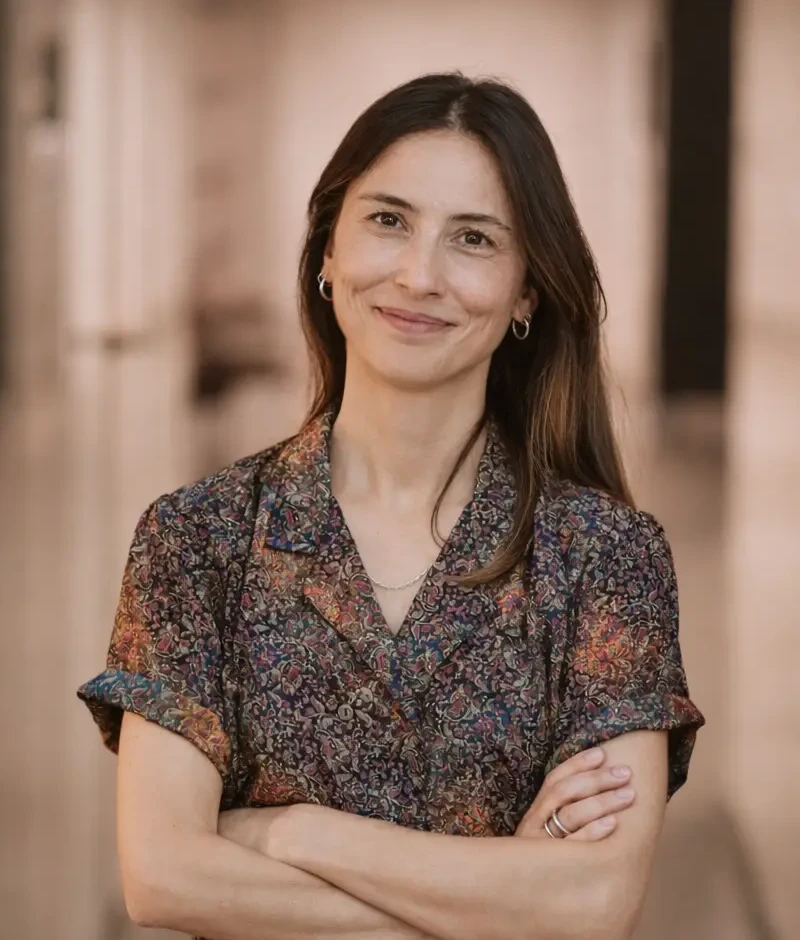
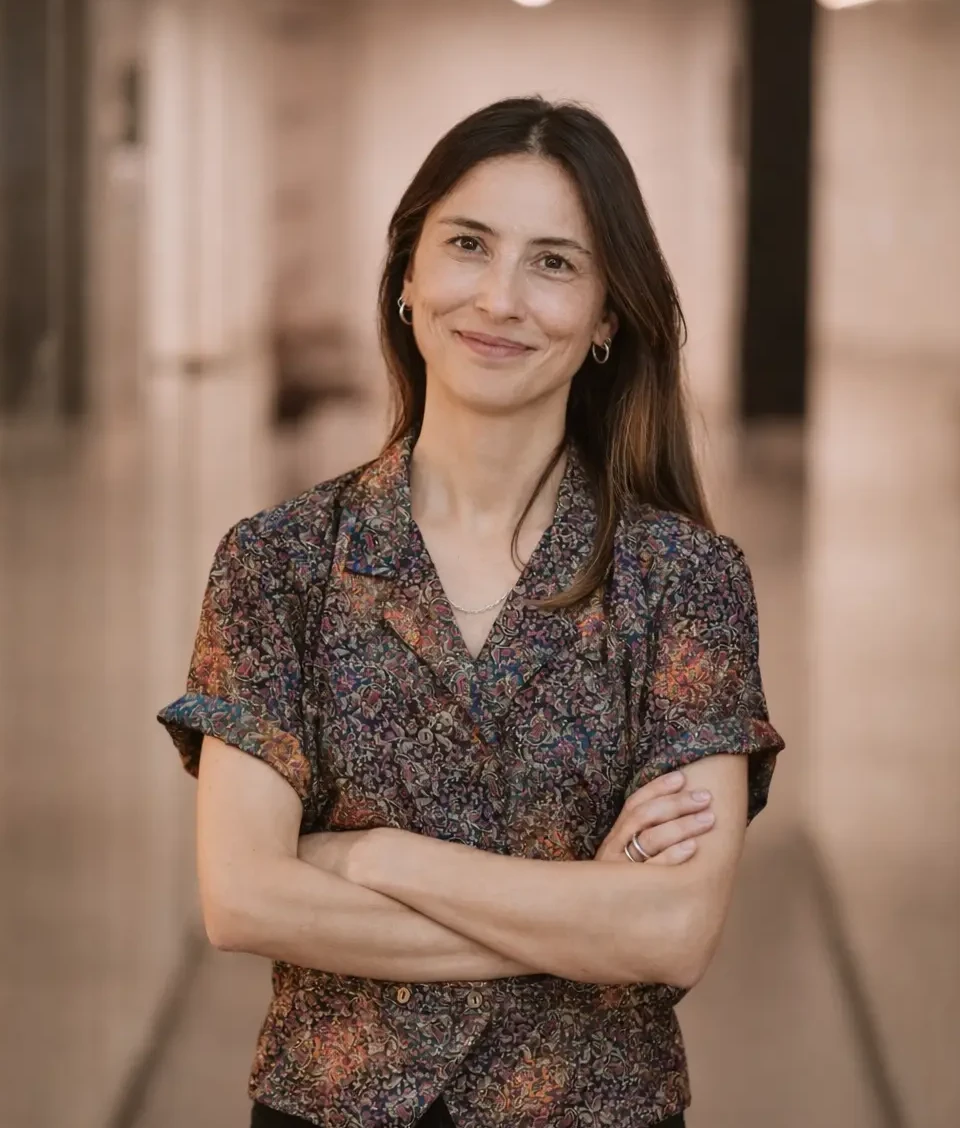
changed animation

diff --git a/index.html b/index.html
@@ -180,12 +180,15 @@
     <section id="about" class="about">
       <p class="about-kicker kicker">Sobre</p>
       <div class="about-copy">
-        <p>Sou a Mariana. Combino anos de trabalho em engenharia de software com experiência em aquisição e conversão digital para transformar sites desatualizados em ferramentas que ajudam o negócio a crescer. Redesenho e reestruturo cada site para criar uma imagem mais moderna e transmitir maior confiança no negócio, otimizo a sua visibilidade no Google e nas ferramentas de IA e crio percursos que transformam visitas em contactos e simplificam a sua gestão.</p>
-        <p>O resultado é um site que não só representa melhor o negócio, mas que trabalha por si todos os dias, a qualquer hora.</p>
+        <h2 class="about-title">Entre o código e o negócio</h2>
+        <p>Sou a Mariana, e acredito que um site deve fazer muito mais do que representar um negócio.</p>
+        <p>Tenho anos de experiência em engenharia de software e produtos digitais. Desde 2018, sou também formadora, a ajudar outras pessoas a aprender a construir para a web.</p>
+        <p>Essa combinação deu-me uma visão pouco comum do processo: vejo os sites tanto do lado de quem os constrói como do lado de quem os utiliza. É essa perspetiva que aplico para transformar sites desatualizados em ferramentas mais credíveis, fáceis de encontrar e pensadas para gerar oportunidades de negócio.</p>
+        <p>Não entrego apenas um novo design. Entrego um site pensado para trabalhar por si.</p>
         <a href="https://www.linkedin.com/in/marianamarcelino-frontend-engineer/" target="_blank" rel="noopener" class="about-link">LinkedIn</a>
       </div>
       <div class="about-visual">
-        <img src="assets/mariana-about.webp" alt="Mariana Marcelino" class="fade-on-load" width="800" height="940" loading="lazy">
+        <img src="assets/mariana-about.webp" alt="Mariana Marcelino" class="fade-on-load" width="960" height="1128" loading="lazy">
       </div>
     </section>
 

diff --git a/styles.css b/styles.css
@@ -913,6 +913,15 @@ a { color: inherit; text-decoration: none; }
   line-height: 1.5;
   padding: 24px var(--gap) 64px;
 }
+.about-title {
+  font-family: var(--font-sans);
+  font-weight: 400;
+  font-size: clamp(26px, 3vw, 42px);
+  line-height: 1.15;
+  letter-spacing: -.02em;
+  text-wrap: balance;
+  margin-bottom: 8px;
+}
 .about-link { display: inline-block; margin-top: -2px; text-decoration: underline; text-underline-offset: 3px; }
 @media (hover: hover) { .about-link:hover { text-decoration: none; } }
 .about-visual {
@@ -952,7 +961,7 @@ a { color: inherit; text-decoration: none; }
      viewports .about-copy stops growing at its max-width, which would
      otherwise leave unclaimed flex space between it and the photo — the
      auto margin absorbs exactly that, keeping the photo pinned to the end. */
-  .about-visual { flex: 0 0 38%; align-self: center; height: 520px; min-height: 0; max-height: none; margin-left: auto; }
+  .about-visual { flex: 0 0 38%; align-self: center; height: 640px; min-height: 0; max-height: none; margin-left: auto; }
 }
 
 .-cover { object-fit: cover; }
